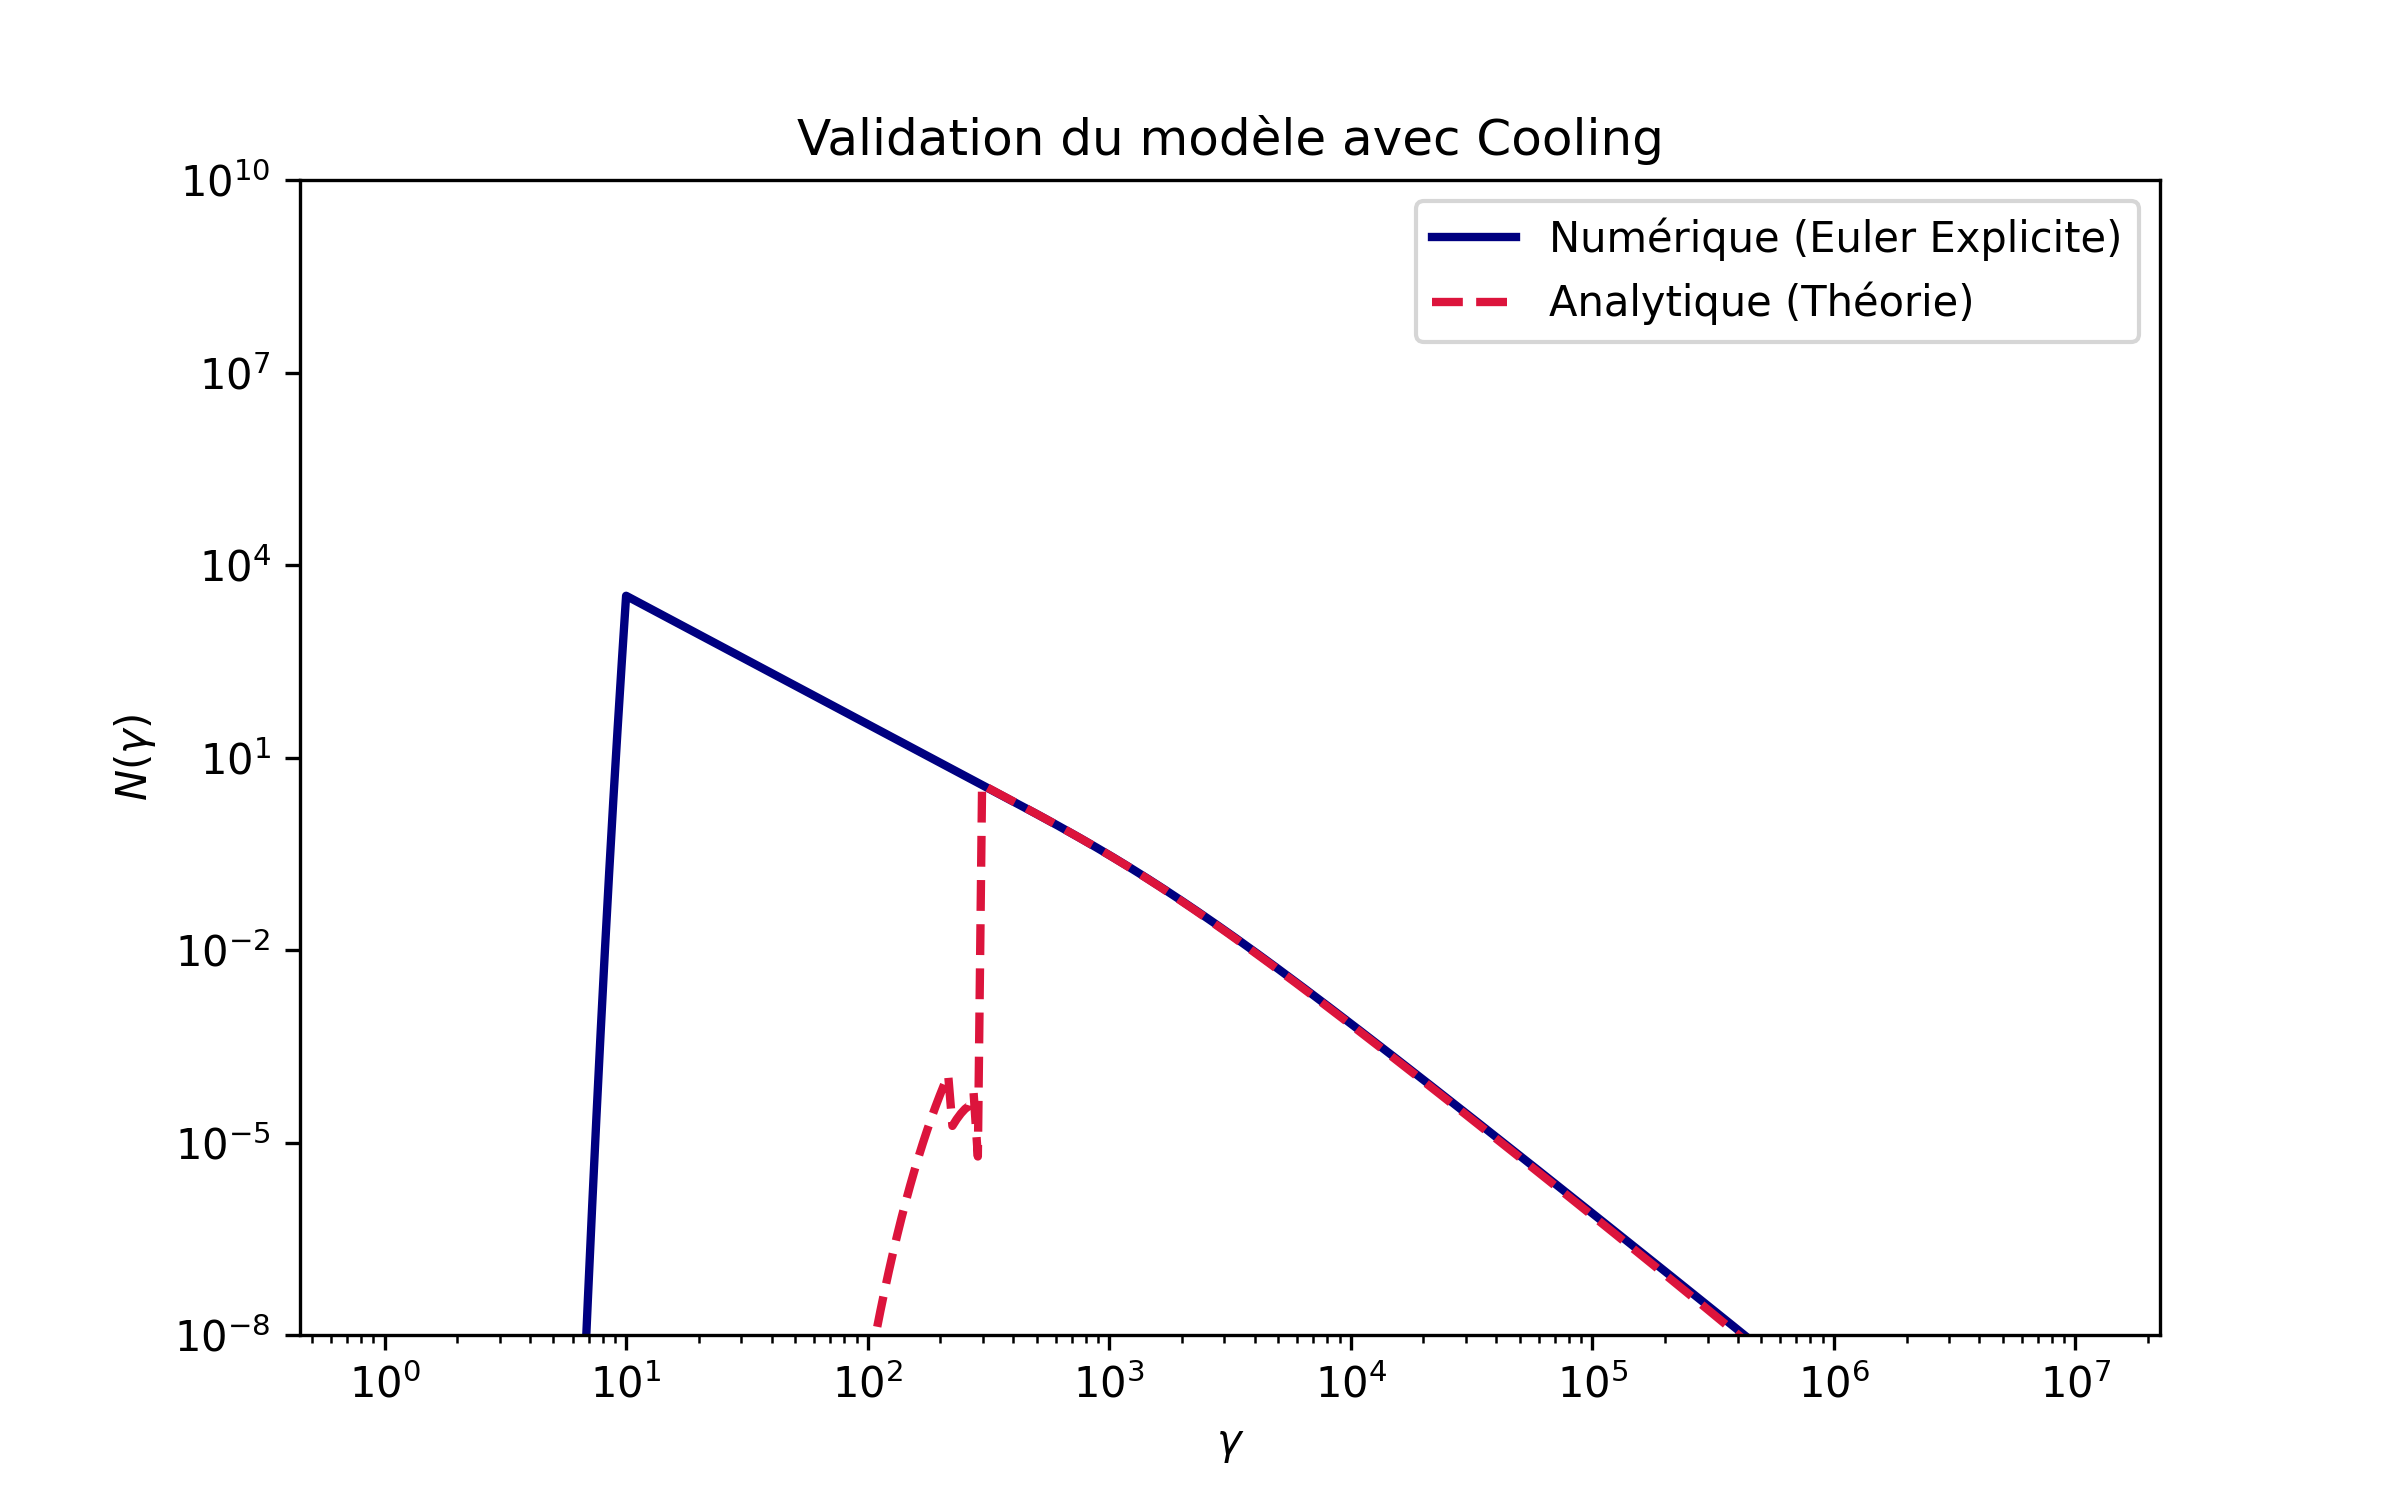
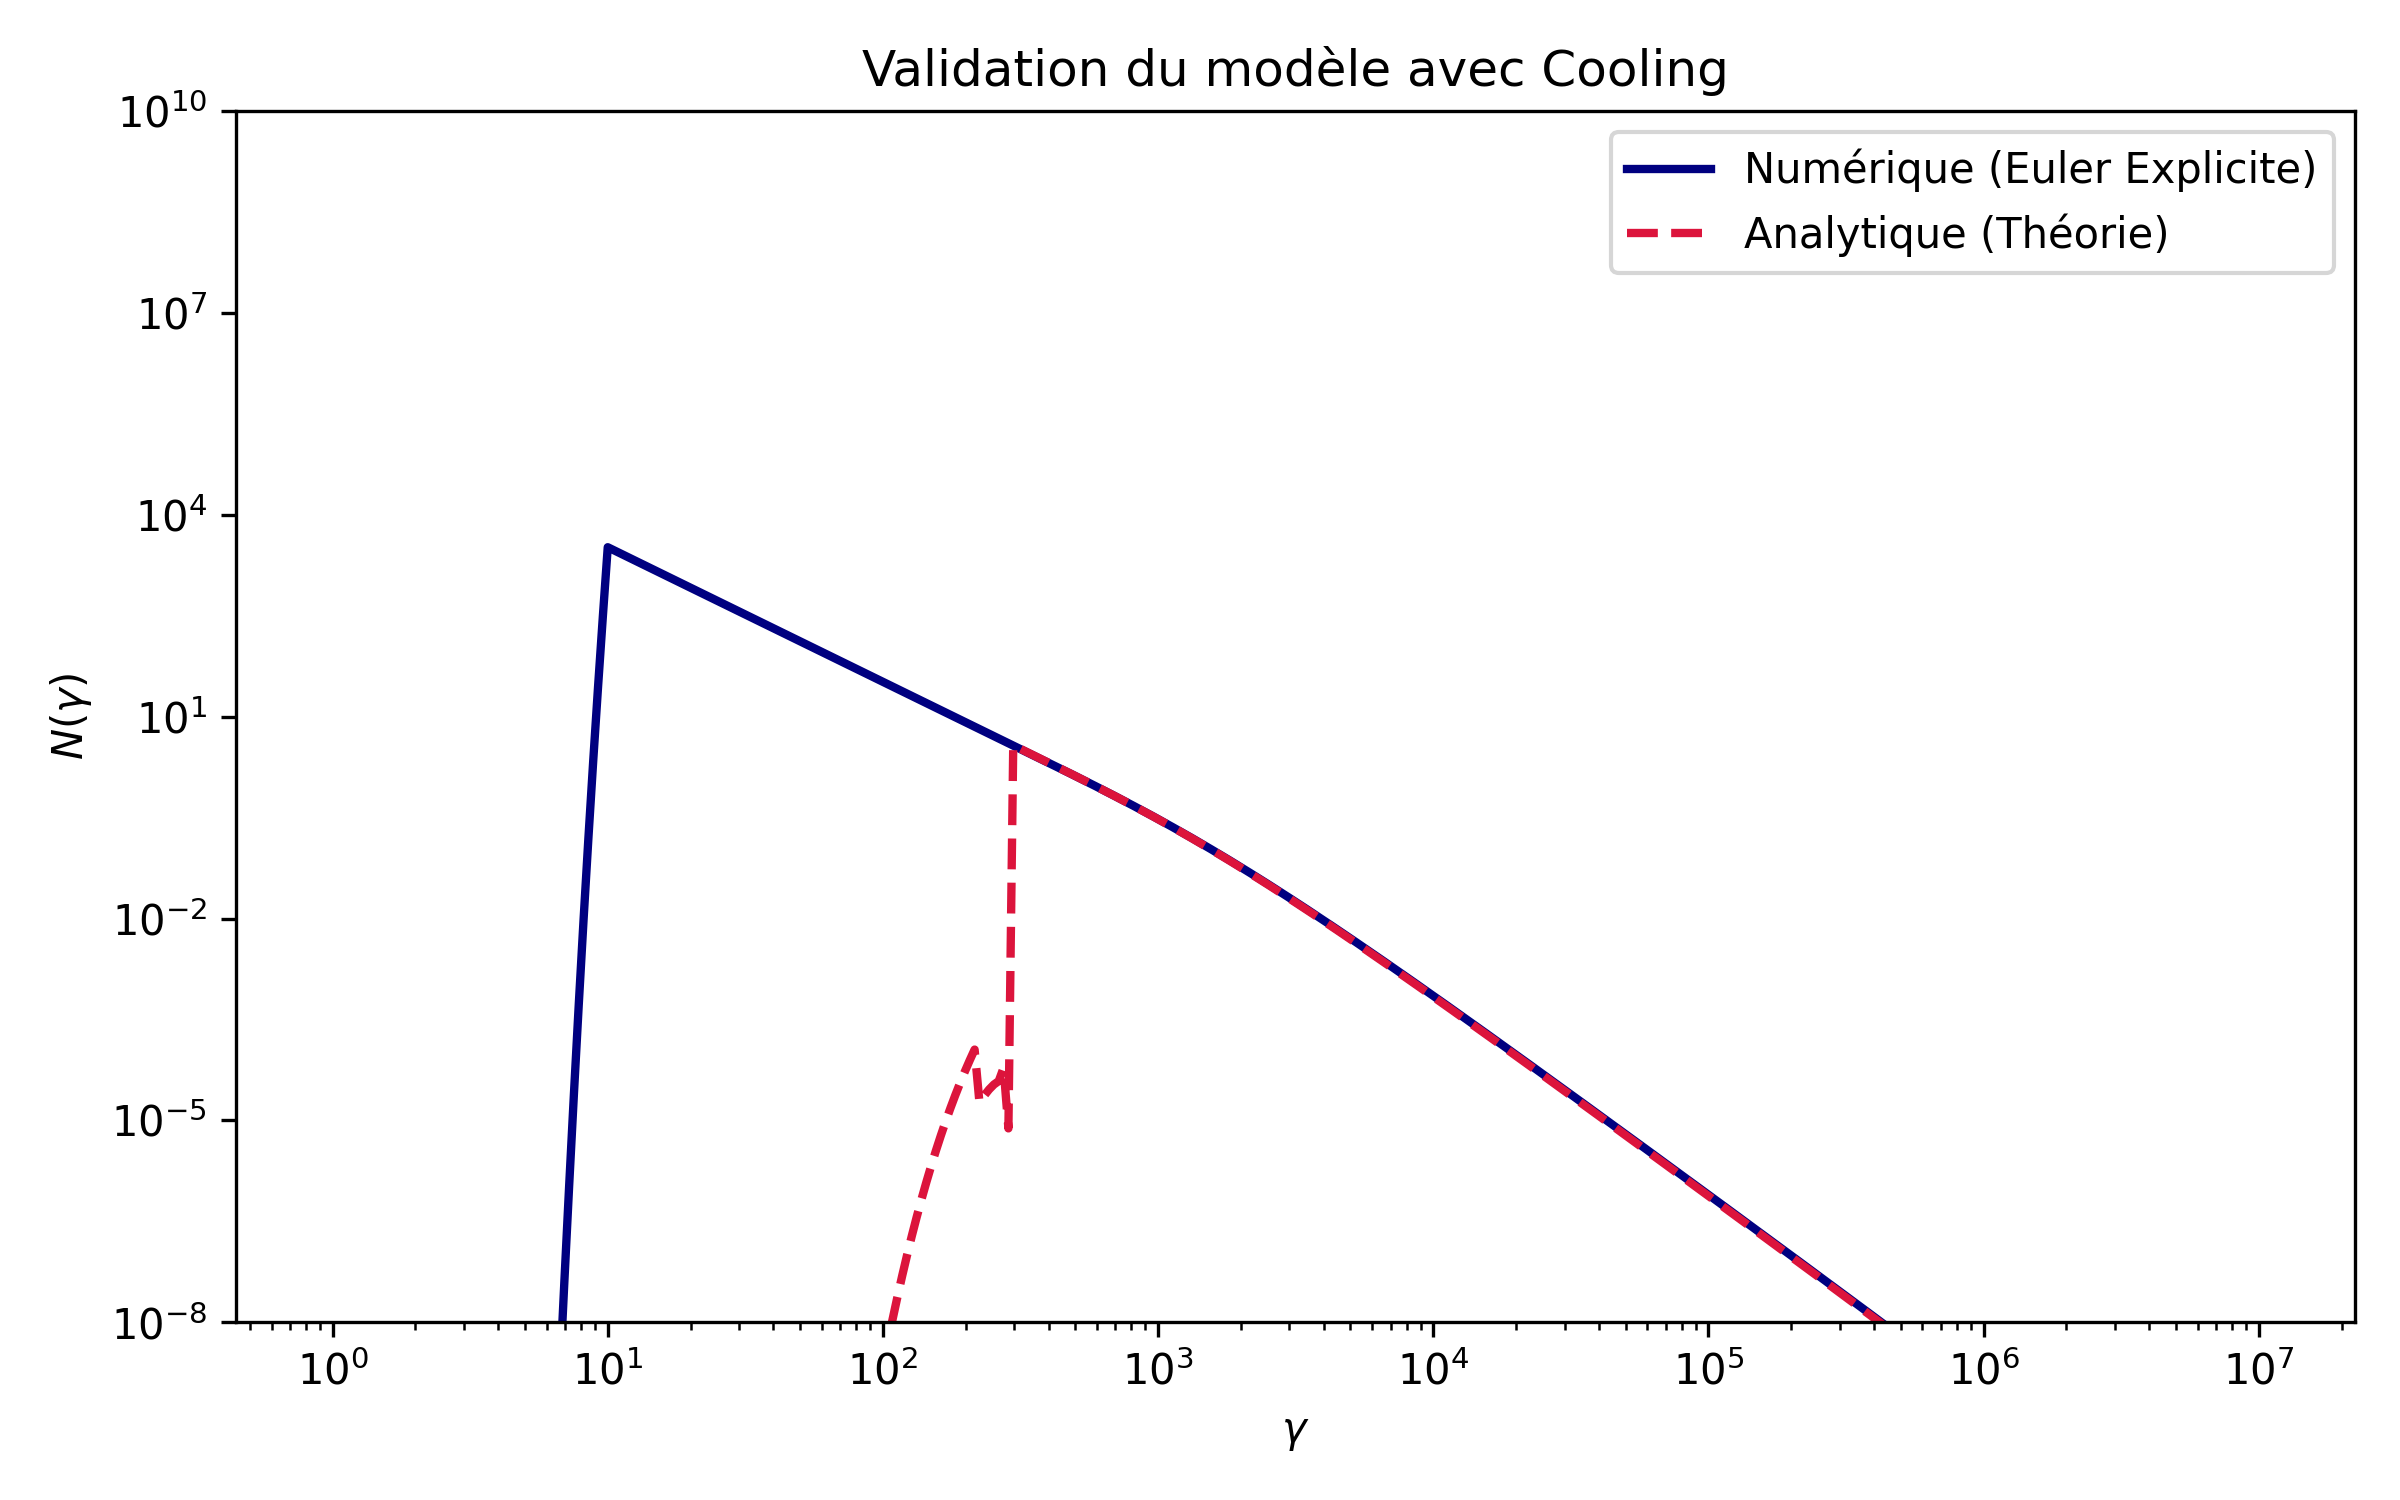
modifications des fonctions pour avoir un environement plus propre pour faire les tests

diff --git a/src/plot_analytical.py b/src/plot_analytical.py
@@ -2,51 +2,32 @@ import numpy as np
 import matplotlib.pyplot as plt
 from scipy.integrate import quad
 from N_analytical import N_analytical , N_analytical_exp 
-from constant import gamma_c, K, gamma_min, gamma_max, s, Q_0
-from N_approx import N_approx_eq228
+from constant import gamma_c, K, gamma_min, gamma_max, s, Q_0, T_ad
+from N_approx import N_approx
 
 
 gamma = np.logspace(0, 7, 400)
-#N_values  = N_analytical(gamma, gamma_c, gamma_min, gamma_max, s, Q_0, K)
+N_values = N_analytical(gamma, gamma_c, gamma_min, gamma_max, s, Q_0, K)
 N_values_exp = N_analytical_exp(gamma, gamma_c, gamma_min, gamma_max, s, Q_0, K)
+K_norm = Q_0 * T_ad
+N_approx_values = N_approx(gamma, s=s, gamma_c=gamma_c, K=K_norm)
 
 plt.figure(figsize=(9, 6))
-plt.loglog(gamma, N_values_exp, label=r'$N_{\text{stat}}(\gamma)$ (intégrale exacte)', color='navy', lw=2)
-plt.loglog(gamma_grid, N_approx, label=r'Approximation Éq. 2.28 ($N \propto \gamma^{-s} (1 + \gamma/\gamma_b)^{-1}$)', color='crimson', linestyle='--')
+plt.loglog(gamma, N_values, label=r'$N_{\text{stat}}$ (Loi de puissance pure $Q \propto \gamma^{-s}$)', color='navy', lw=2)
+plt.loglog(gamma, N_values_exp, label=r'$N_{\text{stat}}(\gamma)$ (intégrale exacte)', color='pink', lw=2)
+plt.loglog(gamma, N_approx_values, label=r'Approximation Éq. 2.28 ($N \propto \gamma^{-s} (1 + \gamma/\gamma_b)^{-1}$)', color='darkorange', linestyle='--')
 
-# Repères visuels
+
 plt.axvline(gamma_min, color='pink', linestyle=':', label=rf'$\gamma_{{\min}} = {gamma_min}$')
 plt.axvline(gamma_max, color='pink', linestyle=':', label=rf'$\gamma_{{\max}} = {gamma_max:.0e}$')
 plt.axvline(gamma_c, color='red', linestyle='--', label=rf'$\gamma_c = {gamma_c:.2e}$')
 
-#plt.ylim(10e-5,10e20)
+plt.ylim(10e-6,10e7)
 plt.xlabel(r'Facteur de Lorentz $\gamma$', fontsize=12)
 plt.ylabel(r'$N(\gamma)$ [u.a.]', fontsize=12)
 plt.title(r'Solution stationnaire analytique exacte', fontsize=13)
 plt.legend(fontsize=10)
-plt.show()
-#plt.grid(True, which='both', ls='--', alpha=0.5)
 plt.tight_layout()
 
-# Sauvegarde dans le dossier docs pour le rapport
-plt.savefig('solution_analytique_exacte.png', dpi=300)
-"""
-plt.figure(figsize=(9, 6))
-
-plt.loglog(gamma, N_values_exp, label=r'$N_{\text{stat}}(\gamma)$ (approximation exponentielle)', color='orange', lw=2, ls='--')
-
-# Repères visuels
-plt.axvline(gamma_min, color='pink', linestyle=':', label=rf'$\gamma_{{\min}} = {gamma_min}$')
-plt.axvline(gamma_max, color='pink', linestyle=':', label=rf'$\gamma_{{\max}} = {gamma_max:.0e}$')
-plt.axvline(gamma_c, color='red', linestyle='--', label=rf'$\gamma_c = {gamma_c:.2e}$')
-
-#plt.ylim(10e-5,10e20)
-plt.xlabel(r'Facteur de Lorentz $\gamma$', fontsize=12)
-plt.ylabel(r'$N(\gamma)$ [u.a.]', fontsize=12)
-plt.title(r'Solution stationnaire analytique exacte', fontsize=13)
-plt.legend(fontsize=10)
-#plt.grid(True, which='both', ls='--', alpha=0.5)
-plt.tight_layout()
-plt.savefig('solution_analytique_exacte exp.png', dpi=300)
+plt.savefig('comparaison_toutes_analytiques.png', dpi=300)
 plt.show()
-"""

diff --git a/src/res_num_Euler_explicite.py b/src/res_num_Euler_explicite.py
@@ -1,7 +1,7 @@
 import numpy as np
 import matplotlib.pyplot as plt
 from constant import gamma_c, K, gamma_min, gamma_max, s, Q_0, T_ad
-from N_analytical_comparaison import N_analytical_pure, N_analytical_exp
+from N_analytical_comparaison import N_analytical_pure
 
 '''
 Résolution de la ditribution d'électrons avec le terme de cooling 
@@ -16,8 +16,7 @@ gamma = np.logspace(0, 7, 400)
 Q = Q_0 * (gamma**(-s))
 Q[(gamma < gamma_min) | (gamma > gamma_max)] = 0.0
 
-#dt = 0.05 * T_ad          # Pas de temps (s)
-#dt = 1.67       # Pas de temps (s)      
+    
 t_max = 5.0 * T_ad        # Temps de simulation total (s)
 
 
@@ -35,7 +34,7 @@ print('le pas de temps CFL est :', dt_cfl_max, 's')
 
 safety_factor = 0.5
 dt = safety_factor * dt_cfl_max
-print('le pas de temps est :', dt, 's')
+print('le pas de temps choisie est :', dt, 's')
 n_steps = int(t_max / dt)
 
 if dt >= dt_cfl_max:
@@ -44,18 +43,18 @@ if dt >= dt_cfl_max:
     print("on pourrait prendre dt = 0.5 * dt_cfl_max =  ",0.5 * dt_cfl_max,"par exemple.")
 else:
     print(" Condition CFL respectée : la simulation sera stable.")
+
+
 N = np.zeros_like(gamma) #intialisation 
 dF_dgamma= np.zeros_like(gamma) #intialisation du terme de cooling
-#gamma_point_before = gamma_max
+
 
 #Euler explicite
 for step in range(n_steps):
     gamma_loss = - K * gamma**2 
     F = gamma_loss * N
+
     for i in range(len(gamma)-1):
-        F_i = gamma_loss[i] * N[i]
-        F_i_plus_1 = gamma_loss[i+1] * N[i+1]
-        #gamma_point = gamma[i]
         dF_dgamma[i] = (F[i+1] - F[i]) / (gamma[i+1] - gamma[i])  # Approximation du gradient
     
     dF_dgamma[len(gamma)-1] = (0 - F[len(gamma)-1]) / (gamma[len(gamma)-1] - gamma[len(gamma)-2]) #condition au bord
@@ -77,7 +76,6 @@ plt.xlabel(r'$\gamma$')
 plt.ylabel(r'$N(\gamma)$')
 plt.title('Validation du modèle avec Cooling')
 plt.legend()
-#plt.grid(True, which="both", ls="--", alpha=0.5)
+plt.tight_layout()
 plt.savefig('Résolution avec cooling (Euler explicite).png', dpi=300)
-#plt.grid(True, standard_style=False, ls='--', alpha=0.5)
 plt.show()

diff --git a/src/N_approx.py b/src/N_approx.py
@@ -4,7 +4,6 @@ from constant import gamma_c, K, gamma_min, gamma_max, s, Q_0
 
 
 
-
 def N_approx(gamma, s, gamma_c, K):
     """
     Approximation analytique de la distribution d'électrons (Éq. 2.28 de ).
@@ -22,22 +21,3 @@ def N_approx(gamma, s, gamma_c, K):
     gamma = np.asarray(gamma)
     return K * (gamma**(-s)) * (1.0 + gamma / gamma_c)**(-1.0)
 
-'''
-
-# Grille de calcul
-gamma_grid = np.logspace(0, 7, 500)
-
-# Calcul avec la formule simplifiée (en posant gamma_b = gamma_c)
-#N_approx = N_approx(gamma_grid, s=s, gamma_c=gamma_c, Q_0=Q_0)
-
-plt.figure(figsize=(8, 5))
-plt.loglog(gamma_grid, N_approx, label=r'Approximation Éq. 2.28 ($N \propto \gamma^{-s} (1 + \gamma/\gamma_b)^{-1}$)', color='crimson', linestyle='--')
-
-plt.axvline(gamma_c, color='gray', linestyle=':', label=rf'$\gamma_b = \gamma_c = {gamma_c:.2e}$')
-plt.xlabel(r'Facteur de Lorentz $\gamma$')
-plt.ylabel(r'$N(\gamma)$')
-plt.title('Approximation analytique simplifiée')
-plt.legend()
-plt.grid(True, which='both', ls='--', alpha=0.5)
-plt.show()
-'''

diff --git a/src/res_num_sans_cooling_explicite.py b/src/res_num_sans_cooling_explicite.py
@@ -24,6 +24,7 @@ N = np.zeros_like(gamma) #intialisation
 t_current = 0.0
 
 #Euler explicite
+plt.figure(figsize = (8,5))
 for step in range(n_steps):
     dN_dt = Q - (N / T_ad)  # Équation différentielle
     N += dN_dt * dt        # Mise à jour de N
@@ -35,13 +36,12 @@ for step in range(n_steps):
 
 N_cooling_exacte = Q * T_ad * (1.0 - np.exp(-t_max / T_ad))  # Solution exacte pour comparaison
 
-plt.figure(figsize=(8, 5))
 plt.loglog(gamma, N, label='Euler explicite (numérique)', color='navy', lw=2)
 plt.loglog(gamma, N_cooling_exacte, label=r'Asymptote $Q(\gamma) \cdot t_{\text{esc}}$', color='crimson', ls='--')
+
 plt.xlabel(r'$\gamma$')
 plt.ylabel(r'$N(\gamma)$')
 plt.title('Résolution sans cooling (Euler explicite)')
 plt.legend()
 plt.savefig('Résolution sans cooling (Euler explicite).png', dpi=300)
-#plt.grid(True, standard_style=False, ls='--', alpha=0.5)
 plt.show()

diff --git a/src/N_analytical.py b/src/N_analytical.py
@@ -26,7 +26,7 @@ def integrer_Q_y_exp (gamma, gamma_c, gamma_max,s , Q_0):
     """
     Q_gp = Q_0 * (gamma**(-s)) * np.exp(-gamma / gamma_max)
     exposant = gamma_c / gamma
-    return (Q_gp * np.exp(exposant))
+    return Q_gp * np.exp(exposant)
 
 def integrer_Q_y (gamma, gamma_c, gamma_max,s , Q_0):
     """
@@ -48,7 +48,7 @@ def integrer_Q_y (gamma, gamma_c, gamma_max,s , Q_0):
     """
     Q_gp = Q_0 * (gamma**(-s))
     exposant = gamma_c / gamma
-    return (Q_gp * np.exp(exposant))
+    return Q_gp * np.exp(exposant)
 
 def N_analytical(gamma,gamma_c,gamma_min,gamma_max,s,Q_0,K):
     """
